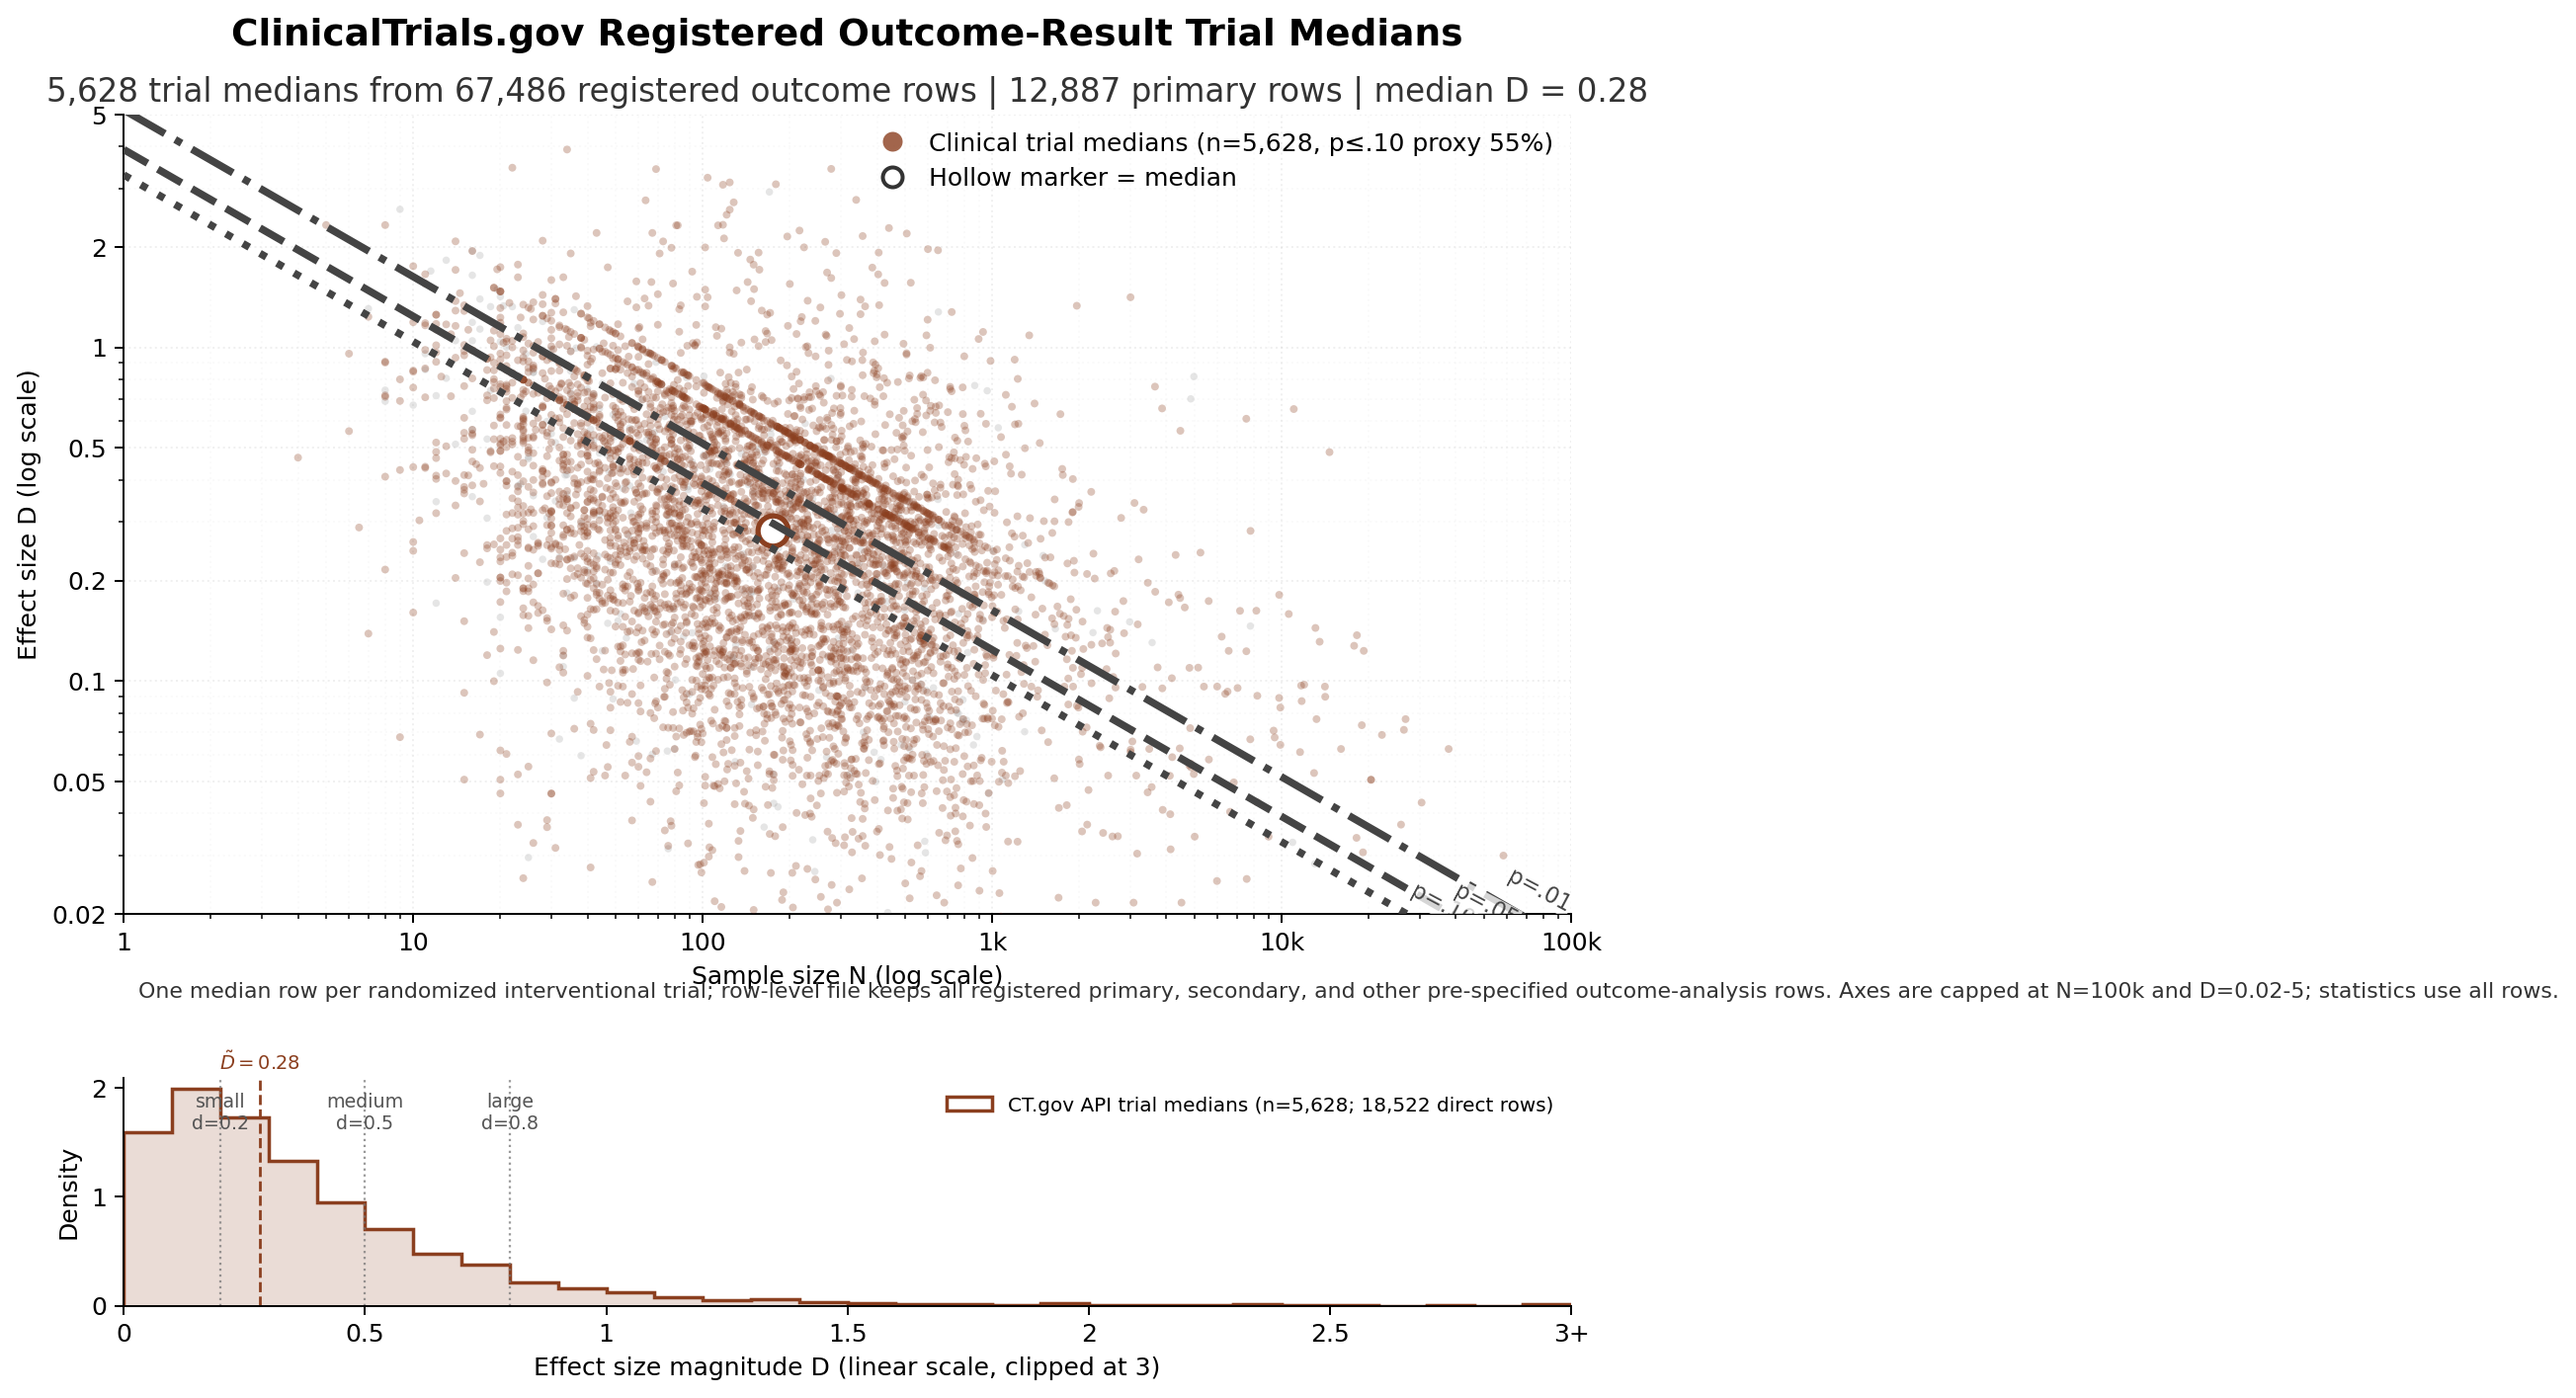
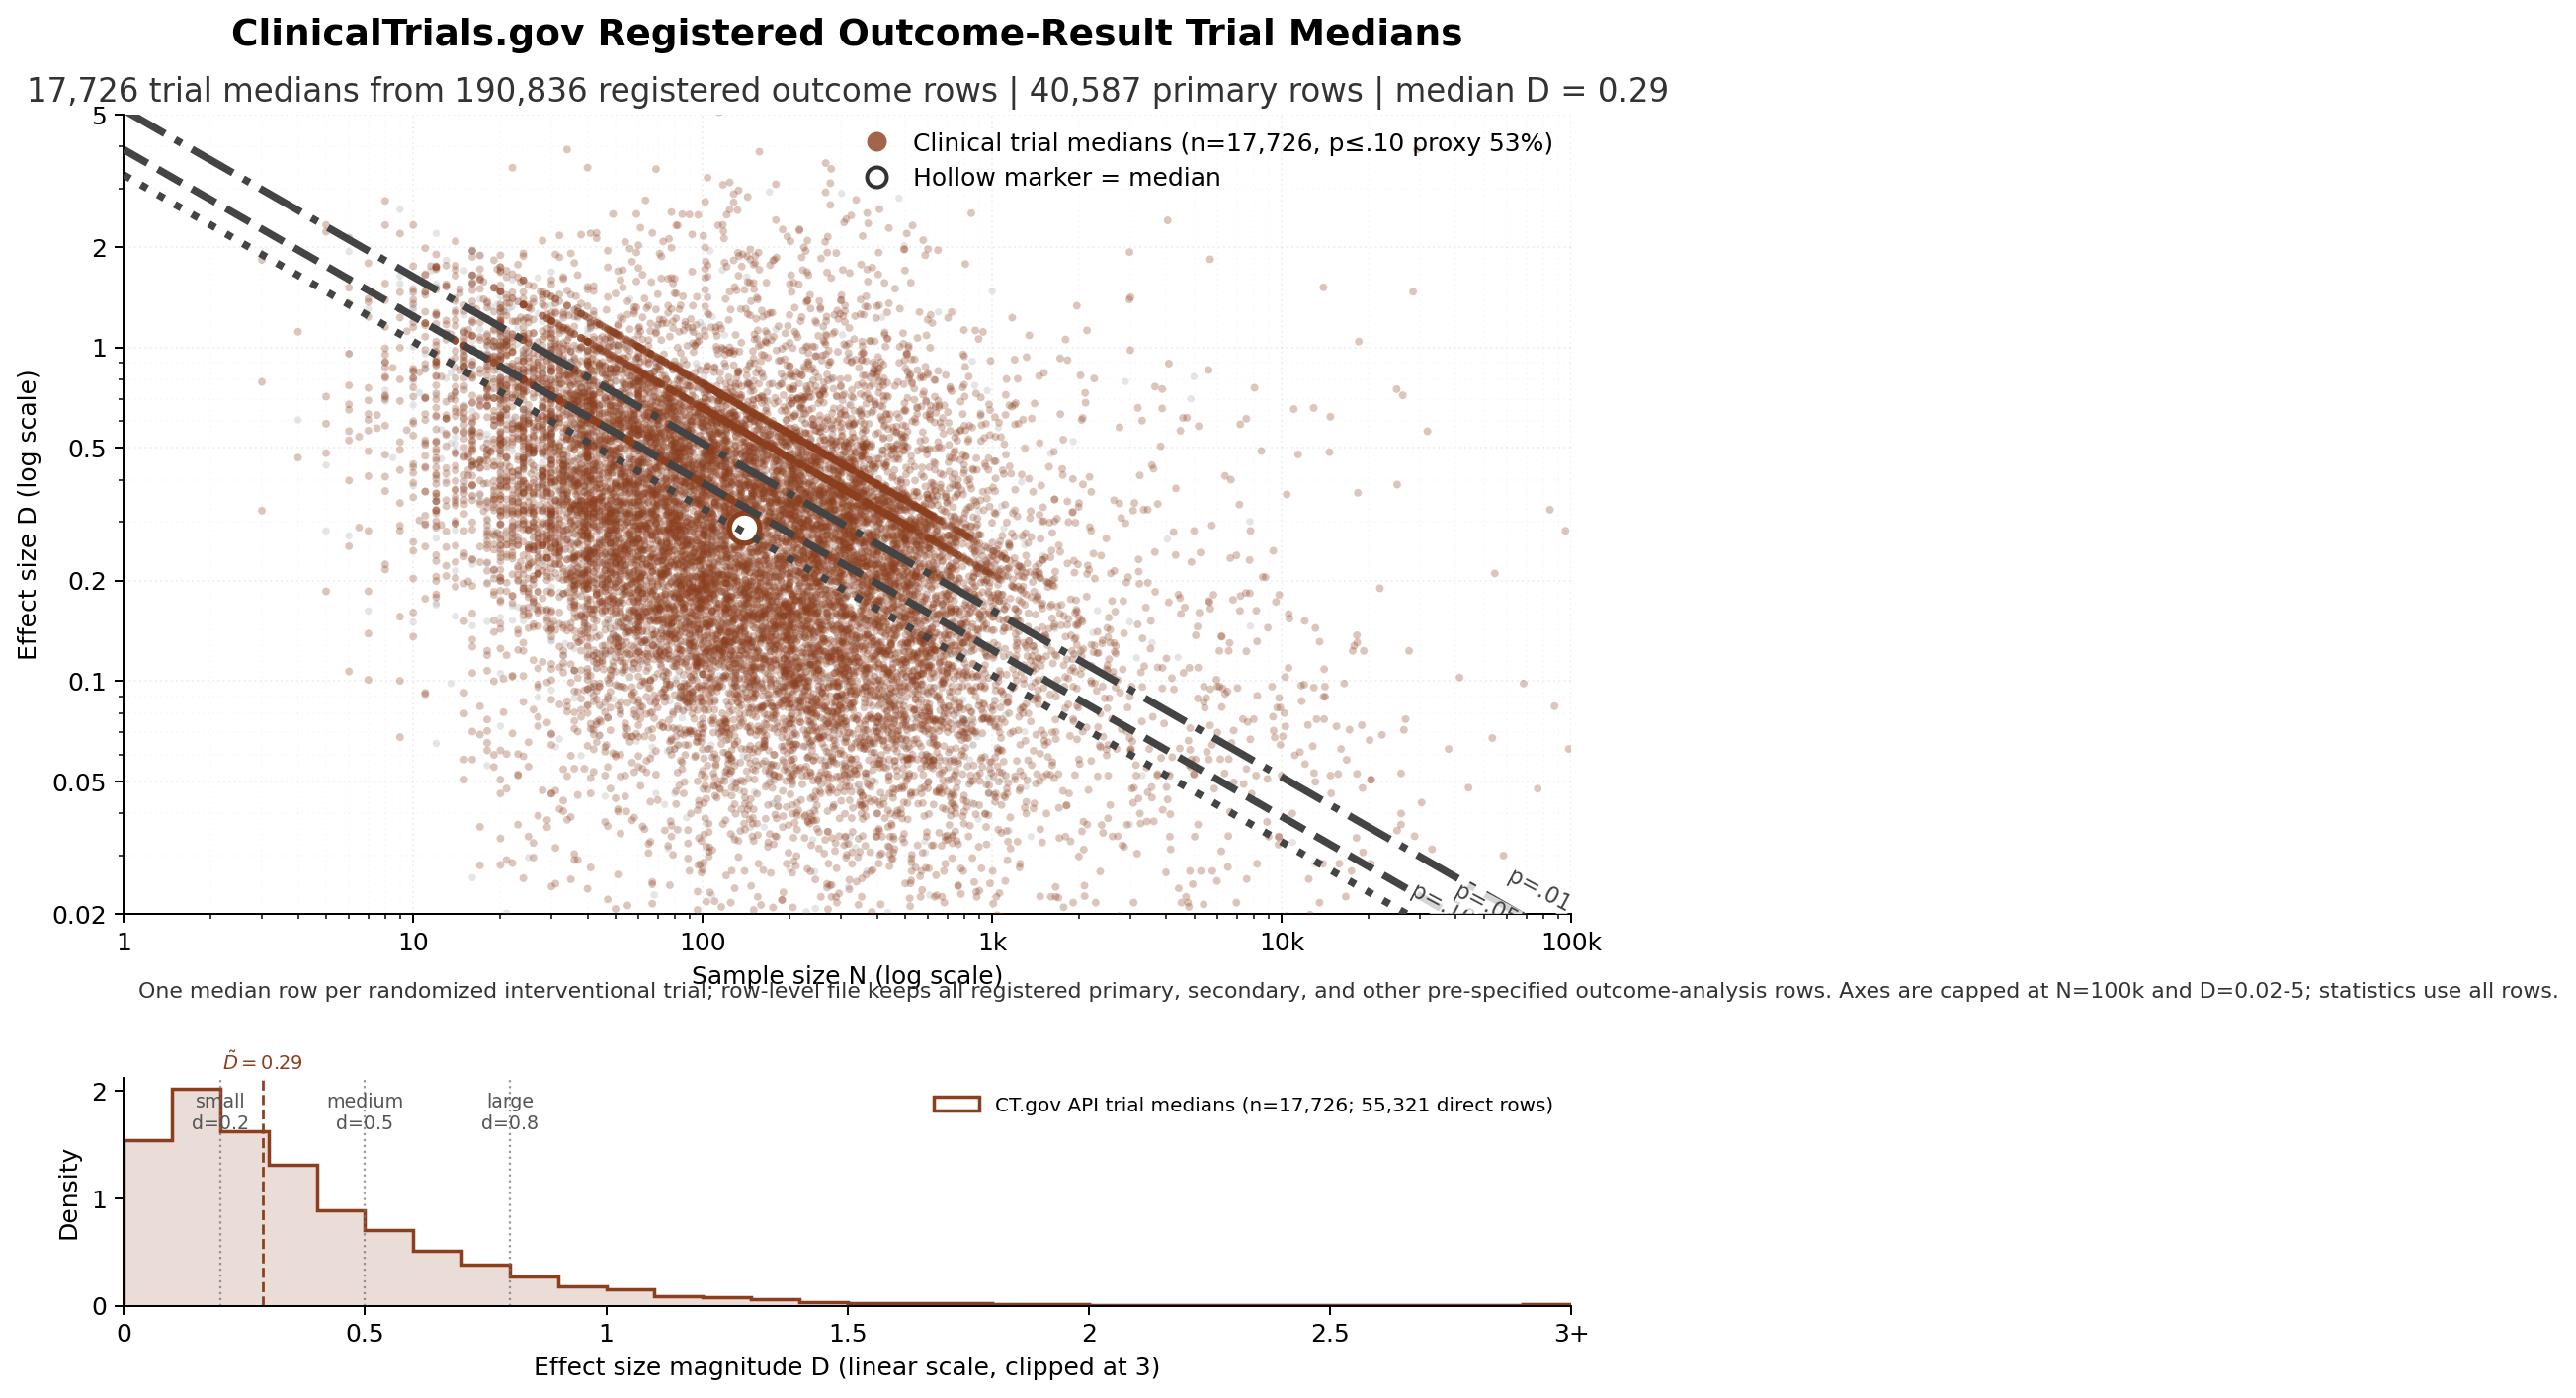
Expand ClinicalTrials.gov registry-result universe

diff --git a/scripts/build_ctgov_registered_result_universe.py b/scripts/build_ctgov_registered_result_universe.py
@@ -28,10 +28,11 @@ ROOT = Path(__file__).resolve().parents[1]
 RAW_CTGOV_KG = ROOT / "data" / "raw" / "corpus_candidates" / "ctgov_kg" / "efficacy_df.csv"
 CACHE_DIR = ROOT / "data" / "cache" / "ctgov_api_v2_studies"
 OUT_DIR = ROOT / "data" / "derived" / "effect_inflation_dataset"
-ROW_OUT = OUT_DIR / "plot3_ctgov_api_registered_outcome_ratio_event_rows.csv"
+ROW_OUT = OUT_DIR / "plot3_ctgov_api_registered_outcome_ratio_event_rows.csv.gz"
 TRIAL_MEDIAN_OUT = OUT_DIR / "plot3_ctgov_api_registered_trial_medians.csv"
 SUMMARY_OUT = OUT_DIR / "plot3_ctgov_api_registered_summary.csv"
 API_BASE = "https://clinicaltrials.gov/api/v2/studies"
+API_SEARCH_QUERY = "AREA[StudyType]Interventional AND AREA[DesignAllocation]Randomized AND AREA[HasResults]true"
 
 ALLOWED_OUTCOME_TYPES = {"PRIMARY", "SECONDARY", "OTHER_PRE_SPECIFIED"}
 P_VALUE_NUMBER_RE = re.compile(r"(?P<p>\d*\.?\d+(?:e[+-]?\d+)?)", re.IGNORECASE)
@@ -226,8 +227,7 @@ def group_title_map(outcome: dict[str, Any]) -> dict[str, str]:
     return {safe_text(group.get("id")): safe_text(group.get("title")) for group in outcome.get("groups") or []}
 
 
-def parse_study(nct_id: str, refresh_cache: bool = False, delay: float = 0.0) -> list[dict[str, object]]:
-    data = fetch_study(nct_id, refresh_cache=refresh_cache, delay=delay)
+def parse_study_data(data: dict[str, Any] | None, fallback_nct_id: str = "") -> list[dict[str, object]]:
     if not data:
         return []
     protocol = data.get("protocolSection", {})
@@ -238,7 +238,7 @@ def parse_study(nct_id: str, refresh_cache: bool = False, delay: float = 0.0) ->
     arms = protocol.get("armsInterventionsModule", {})
     results = data.get("resultsSection", {})
     outcome_module = results.get("outcomeMeasuresModule", {})
-    nct = safe_text(identification.get("nctId")) or nct_id
+    nct = safe_text(identification.get("nctId")) or fallback_nct_id
     rows: list[dict[str, object]] = []
     for outcome_idx, outcome in enumerate(outcome_module.get("outcomeMeasures") or [], start=1):
         outcome_type = safe_text(outcome.get("type")).upper()
@@ -313,6 +313,11 @@ def parse_study(nct_id: str, refresh_cache: bool = False, delay: float = 0.0) ->
     return rows
 
 
+def parse_study(nct_id: str, refresh_cache: bool = False, delay: float = 0.0) -> list[dict[str, object]]:
+    data = fetch_study(nct_id, refresh_cache=refresh_cache, delay=delay)
+    return parse_study_data(data, fallback_nct_id=nct_id)
+
+
 def randomized_interventional_nct_ids(limit: int | None = None) -> list[str]:
     source = pd.read_csv(
         RAW_CTGOV_KG,
@@ -333,15 +338,7 @@ def randomized_interventional_nct_ids(limit: int | None = None) -> list[str]:
     return ids[:limit] if limit else ids
 
 
-def build_rows(limit: int | None, workers: int, refresh_cache: bool, delay: float) -> pd.DataFrame:
-    ids = randomized_interventional_nct_ids(limit=limit)
-    rows: list[dict[str, object]] = []
-    with ThreadPoolExecutor(max_workers=workers) as executor:
-        futures = {executor.submit(parse_study, nct_id, refresh_cache, delay): nct_id for nct_id in ids}
-        for idx, future in enumerate(as_completed(futures), start=1):
-            rows.extend(future.result())
-            if idx % 500 == 0:
-                print(f"processed {idx:,}/{len(ids):,} studies; rows={len(rows):,}", flush=True)
+def normalize_rows(rows: list[dict[str, object]]) -> pd.DataFrame:
     df = pd.DataFrame(rows)
     if df.empty:
         return df
@@ -362,8 +359,73 @@ def build_rows(limit: int | None, workers: int, refresh_cache: bool, delay: floa
     )
     df["log10_N"] = df["N"].map(math.log10)
     df["log10_D"] = df["D"].map(math.log10)
-    df = df.sort_values(["nct_id", "outcome_type", "outcome_title", "point_id"]).reset_index(drop=True)
-    return df
+    return df.sort_values(["nct_id", "outcome_type", "outcome_title", "point_id"]).reset_index(drop=True)
+
+
+def build_rows_from_local_seed(limit: int | None, workers: int, refresh_cache: bool, delay: float) -> pd.DataFrame:
+    ids = randomized_interventional_nct_ids(limit=limit)
+    rows: list[dict[str, object]] = []
+    with ThreadPoolExecutor(max_workers=workers) as executor:
+        futures = {executor.submit(parse_study, nct_id, refresh_cache, delay): nct_id for nct_id in ids}
+        for idx, future in enumerate(as_completed(futures), start=1):
+            rows.extend(future.result())
+            if idx % 500 == 0:
+                print(f"processed {idx:,}/{len(ids):,} studies; rows={len(rows):,}", flush=True)
+    return normalize_rows(rows)
+
+
+def build_rows_from_api_search(limit: int | None, page_size: int) -> pd.DataFrame:
+    rows: list[dict[str, object]] = []
+    params = {
+        "format": "json",
+        "pageSize": page_size,
+        "query.term": API_SEARCH_QUERY,
+    }
+    page_token = None
+    pages = 0
+    studies_seen = 0
+    while True:
+        request_params = params.copy()
+        if page_token:
+            request_params["pageToken"] = page_token
+        response = requests.get(API_BASE, params=request_params, timeout=60)
+        response.raise_for_status()
+        data = response.json()
+        studies = data.get("studies") or []
+        pages += 1
+        for study in studies:
+            if limit is not None and studies_seen >= limit:
+                break
+            rows.extend(parse_study_data(study))
+            studies_seen += 1
+        print(
+            f"processed api page {pages:,}; studies={studies_seen:,}; rows={len(rows):,}",
+            flush=True,
+        )
+        if limit is not None and studies_seen >= limit:
+            break
+        page_token = data.get("nextPageToken")
+        if not page_token:
+            break
+    return normalize_rows(rows)
+
+
+def build_rows(
+    limit: int | None,
+    workers: int,
+    refresh_cache: bool,
+    delay: float,
+    source: str,
+    page_size: int,
+) -> pd.DataFrame:
+    if source == "api-search":
+        return build_rows_from_api_search(limit=limit, page_size=page_size)
+    return build_rows_from_local_seed(
+        limit=limit,
+        workers=workers,
+        refresh_cache=refresh_cache,
+        delay=delay,
+    )
 
 
 def write_trial_medians(rows: pd.DataFrame) -> pd.DataFrame:
@@ -431,14 +493,21 @@ def write_summary(rows: pd.DataFrame, trial_medians: pd.DataFrame) -> pd.DataFra
 
 def main() -> None:
     parser = argparse.ArgumentParser()
-    parser.add_argument("--limit", type=int, default=None, help="Optional number of local randomized interventional NCT IDs to process.")
+    parser.add_argument(
+        "--source",
+        choices=["api-search", "local-kg"],
+        default="api-search",
+        help="api-search enumerates the full ClinicalTrials.gov randomized/results query; local-kg uses the older local CT.gov KG NCT seed.",
+    )
+    parser.add_argument("--limit", type=int, default=None, help="Optional number of studies to process.")
+    parser.add_argument("--page-size", type=int, default=500, help="ClinicalTrials.gov API search page size.")
     parser.add_argument("--workers", type=int, default=24)
     parser.add_argument("--refresh-cache", action="store_true")
     parser.add_argument("--delay", type=float, default=0.0, help="Optional per-request delay in seconds.")
     args = parser.parse_args()
 
     OUT_DIR.mkdir(parents=True, exist_ok=True)
-    rows = build_rows(args.limit, args.workers, args.refresh_cache, args.delay)
+    rows = build_rows(args.limit, args.workers, args.refresh_cache, args.delay, args.source, args.page_size)
     rows.to_csv(ROW_OUT, index=False)
     trial_medians = write_trial_medians(rows)
     trial_medians.to_csv(TRIAL_MEDIAN_OUT, index=False)

diff --git a/scripts/build_paper_assets.py b/scripts/build_paper_assets.py
@@ -81,7 +81,7 @@ PROTZKO_PROMOTED = HARVEST_PROMOTED_DIR / "protzko_nhb_pairs__promoted_pairs.csv
 PREREG_RESULTS = DATASET_DERIVED_DIR / "plot3_preregistered_results.csv"
 PREREG_SENSITIVITY_RESULTS = DATASET_DERIVED_DIR / "plot3_preregistered_sensitivity_sidecar_rows.csv"
 PREREG_CTGOV_PRIMARY_RANDOMIZED_RESULTS = DATASET_DERIVED_DIR / "plot3_ctgov_phase2plus_primary_randomized_sidecar_rows.csv"
-CTGOV_API_REGISTERED_ROWS = DATASET_DERIVED_DIR / "plot3_ctgov_api_registered_outcome_ratio_event_rows.csv"
+CTGOV_API_REGISTERED_ROWS = DATASET_DERIVED_DIR / "plot3_ctgov_api_registered_outcome_ratio_event_rows.csv.gz"
 CTGOV_API_REGISTERED_TRIAL_MEDIANS = DATASET_DERIVED_DIR / "plot3_ctgov_api_registered_trial_medians.csv"
 SCHEEL_QUOTE_RESCUE_CANDIDATES = DATASET_DERIVED_DIR / "plot3_scheel_quote_stat_rescue_candidates.csv"
 VANDENAKKER_RESCUE_CANDIDATES = DATASET_DERIVED_DIR / "plot3_vandenakker_first_stat_candidates.csv"